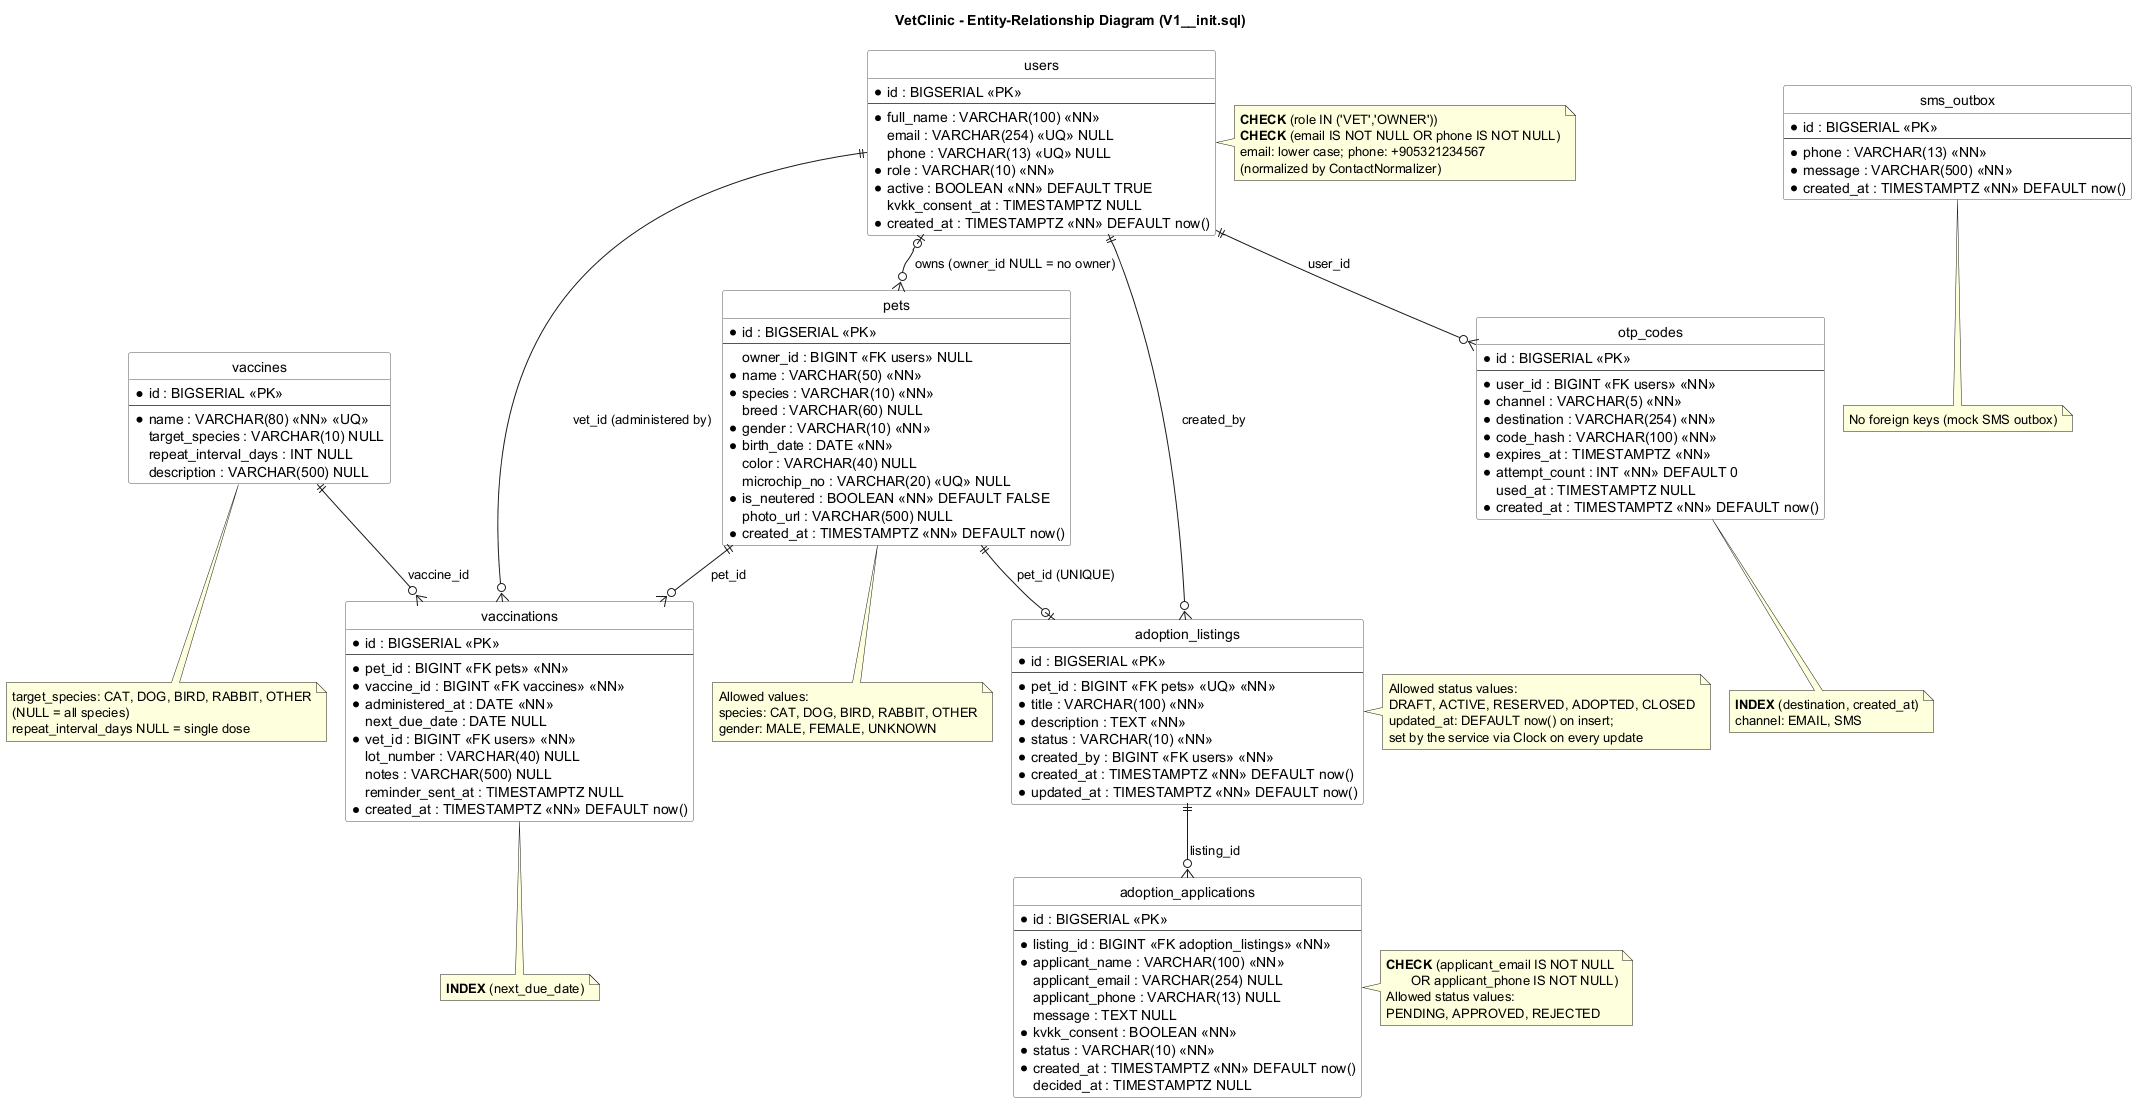
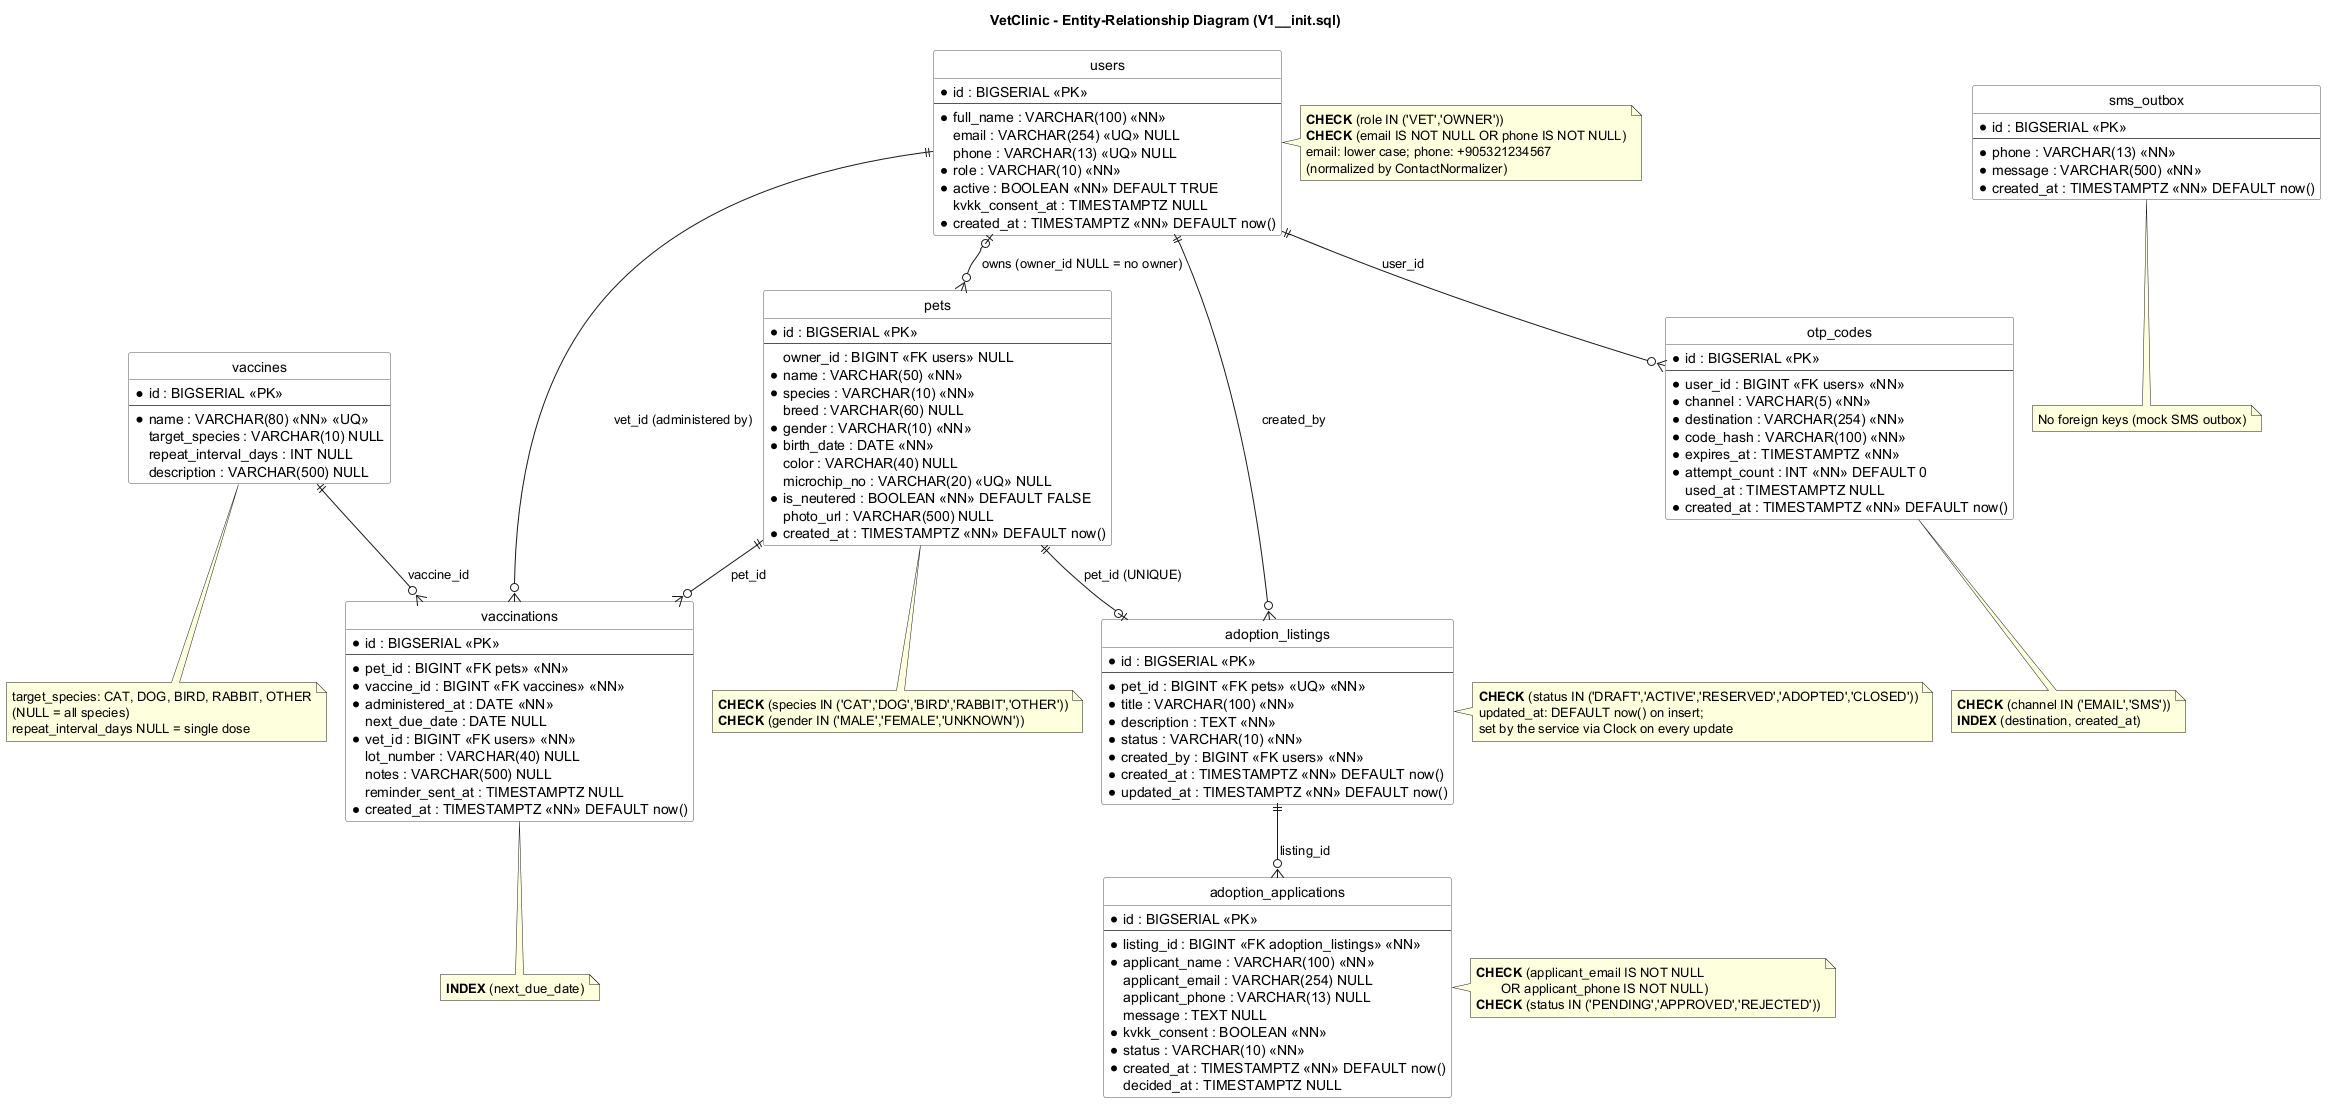
docs: show enum CHECK constraints in ER diagram, tidy notification diagram
- er.puml: pets.species, pets.gender, adoption_listings.status,
  adoption_applications.status and otp_codes.channel are shown as
  CHECK constraints instead of "allowed values"
- decisions.md: record 9, all enum columns have CHECK constraints
- class-notification.puml: notes placed next to their classes,
  senders laid out under the NotificationSender interface
- Re-rendered er.png and class-notification.png

diff --git a/docs/decisions.md b/docs/decisions.md
@@ -47,3 +47,9 @@
 - **Date:** 2026-10-30
 - **Decision:** `updated_at TIMESTAMPTZ NOT NULL DEFAULT now()`; the default fills it on insert, and the service sets it via the injected `Clock` on every update.
 - **Rationale:** the Y2 table did not specify a type; this follows the time rule in `CLAUDE.md` (no direct `now()` calls in Java, business timestamps set by services using the Clock).
+
+## 9. CHECK constraints on enum columns
+
+- **Date:** 2026-10-30
+- **Decision:** all enum columns have CHECK constraints in `V1__init.sql`: `users.role`, `pets.species`, `pets.gender`, `adoption_listings.status`, `adoption_applications.status` and `otp_codes.channel`. Each constraint lists exactly the values in decision 3.
+- **Rationale:** the database rejects invalid values even outside the application (manual SQL, seed scripts, future migrations), so a typo cannot store a value that `@Enumerated(EnumType.STRING)` fails to read back.
